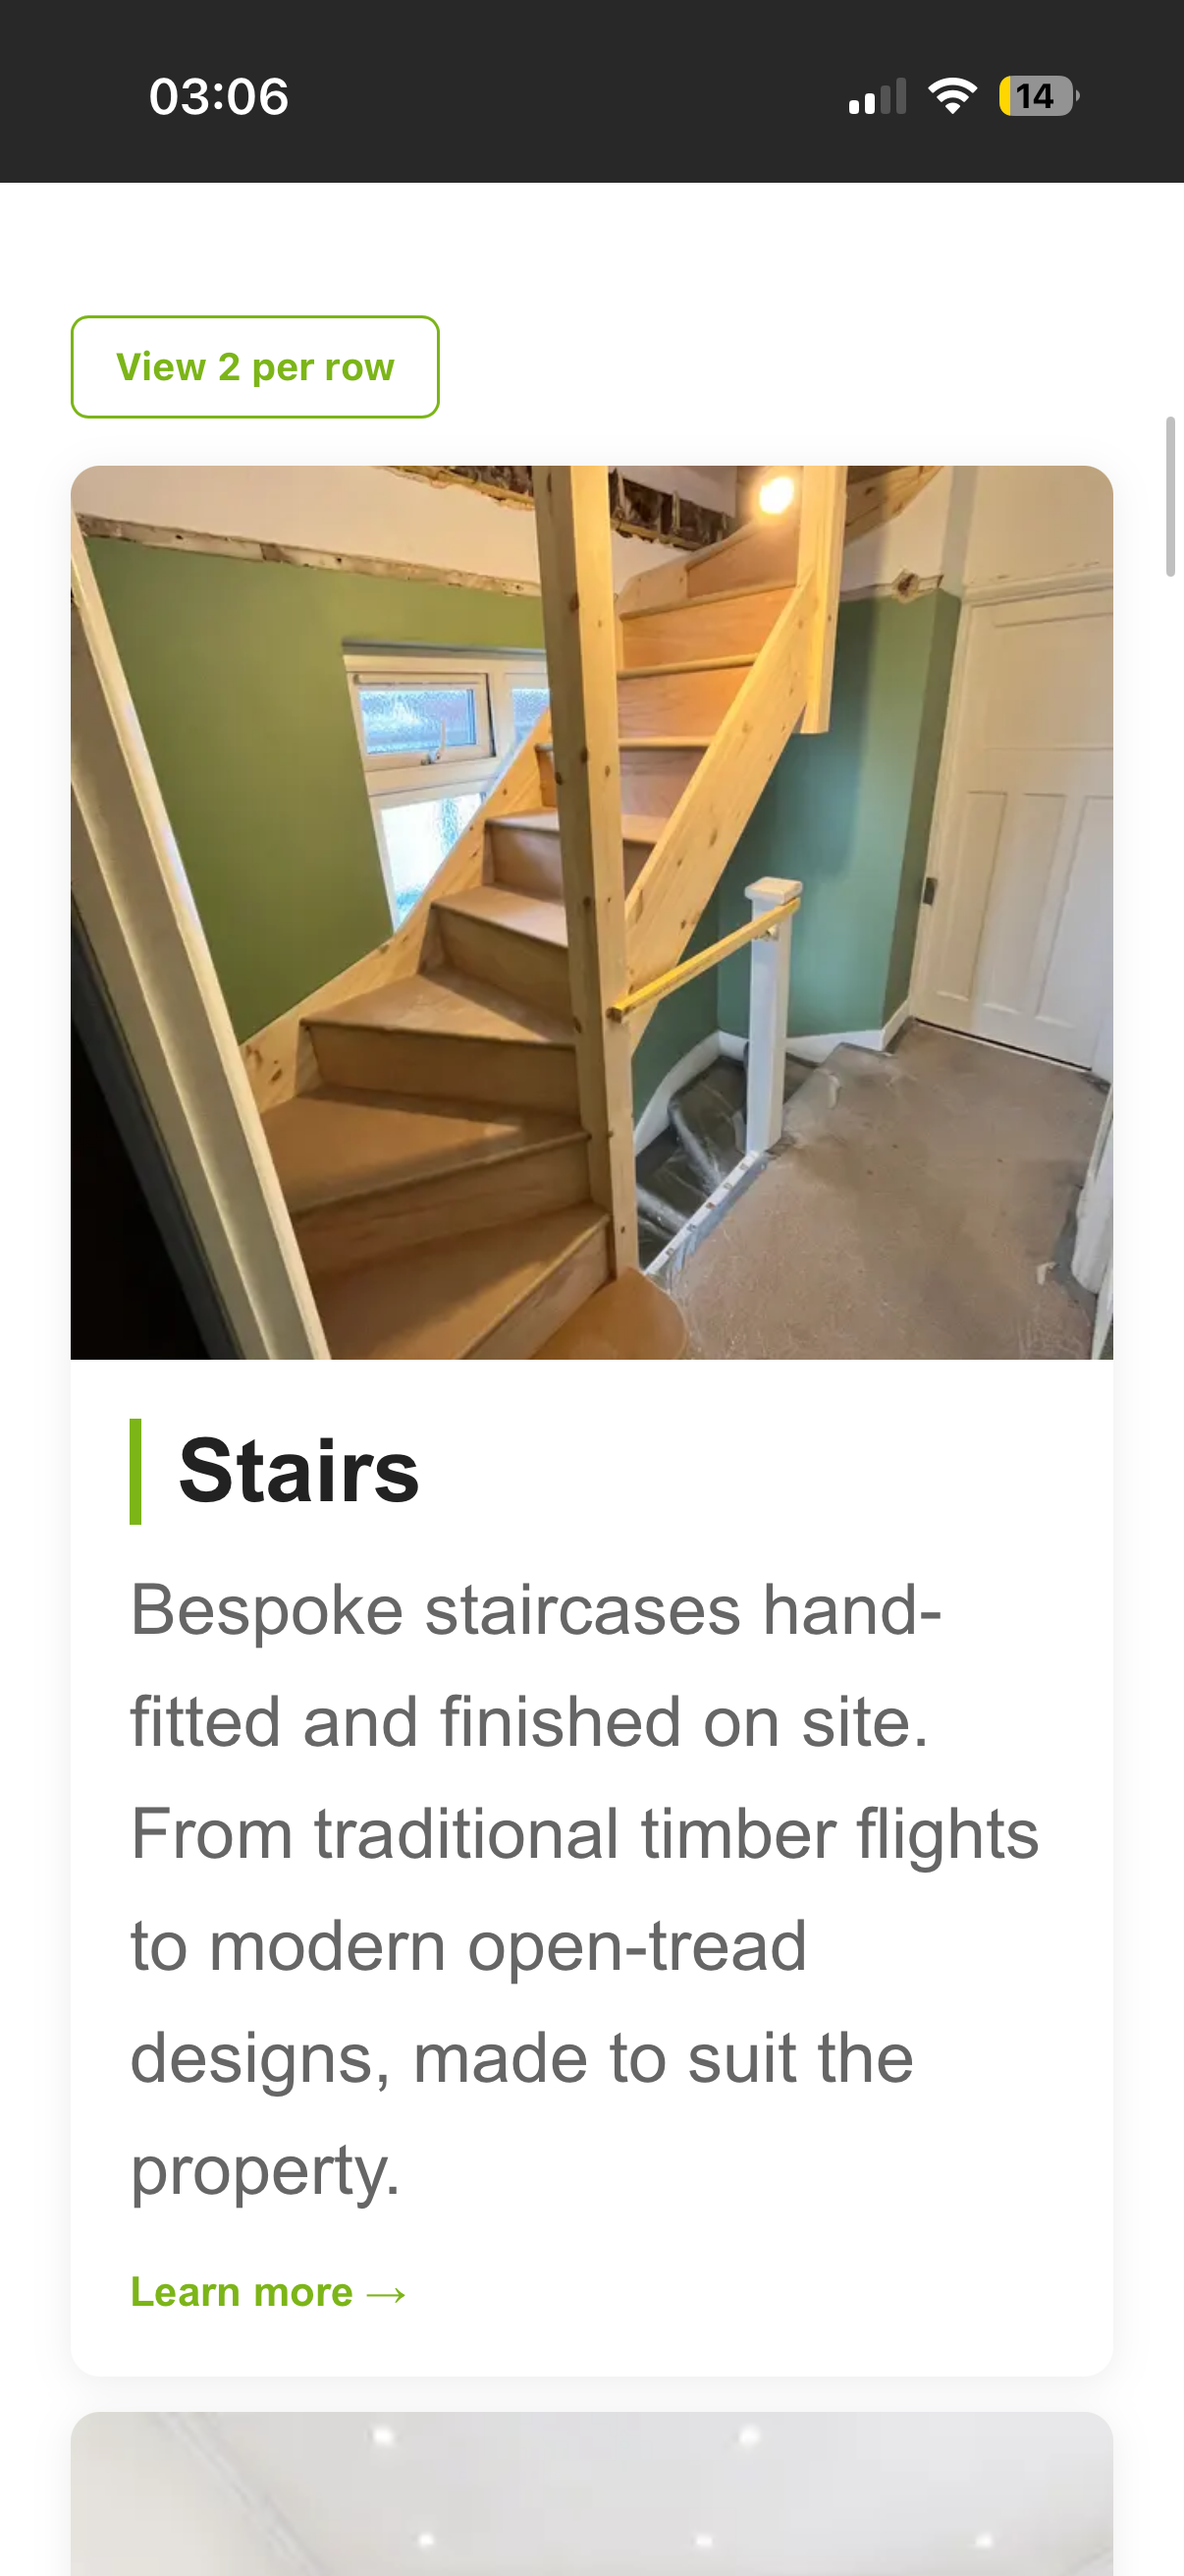
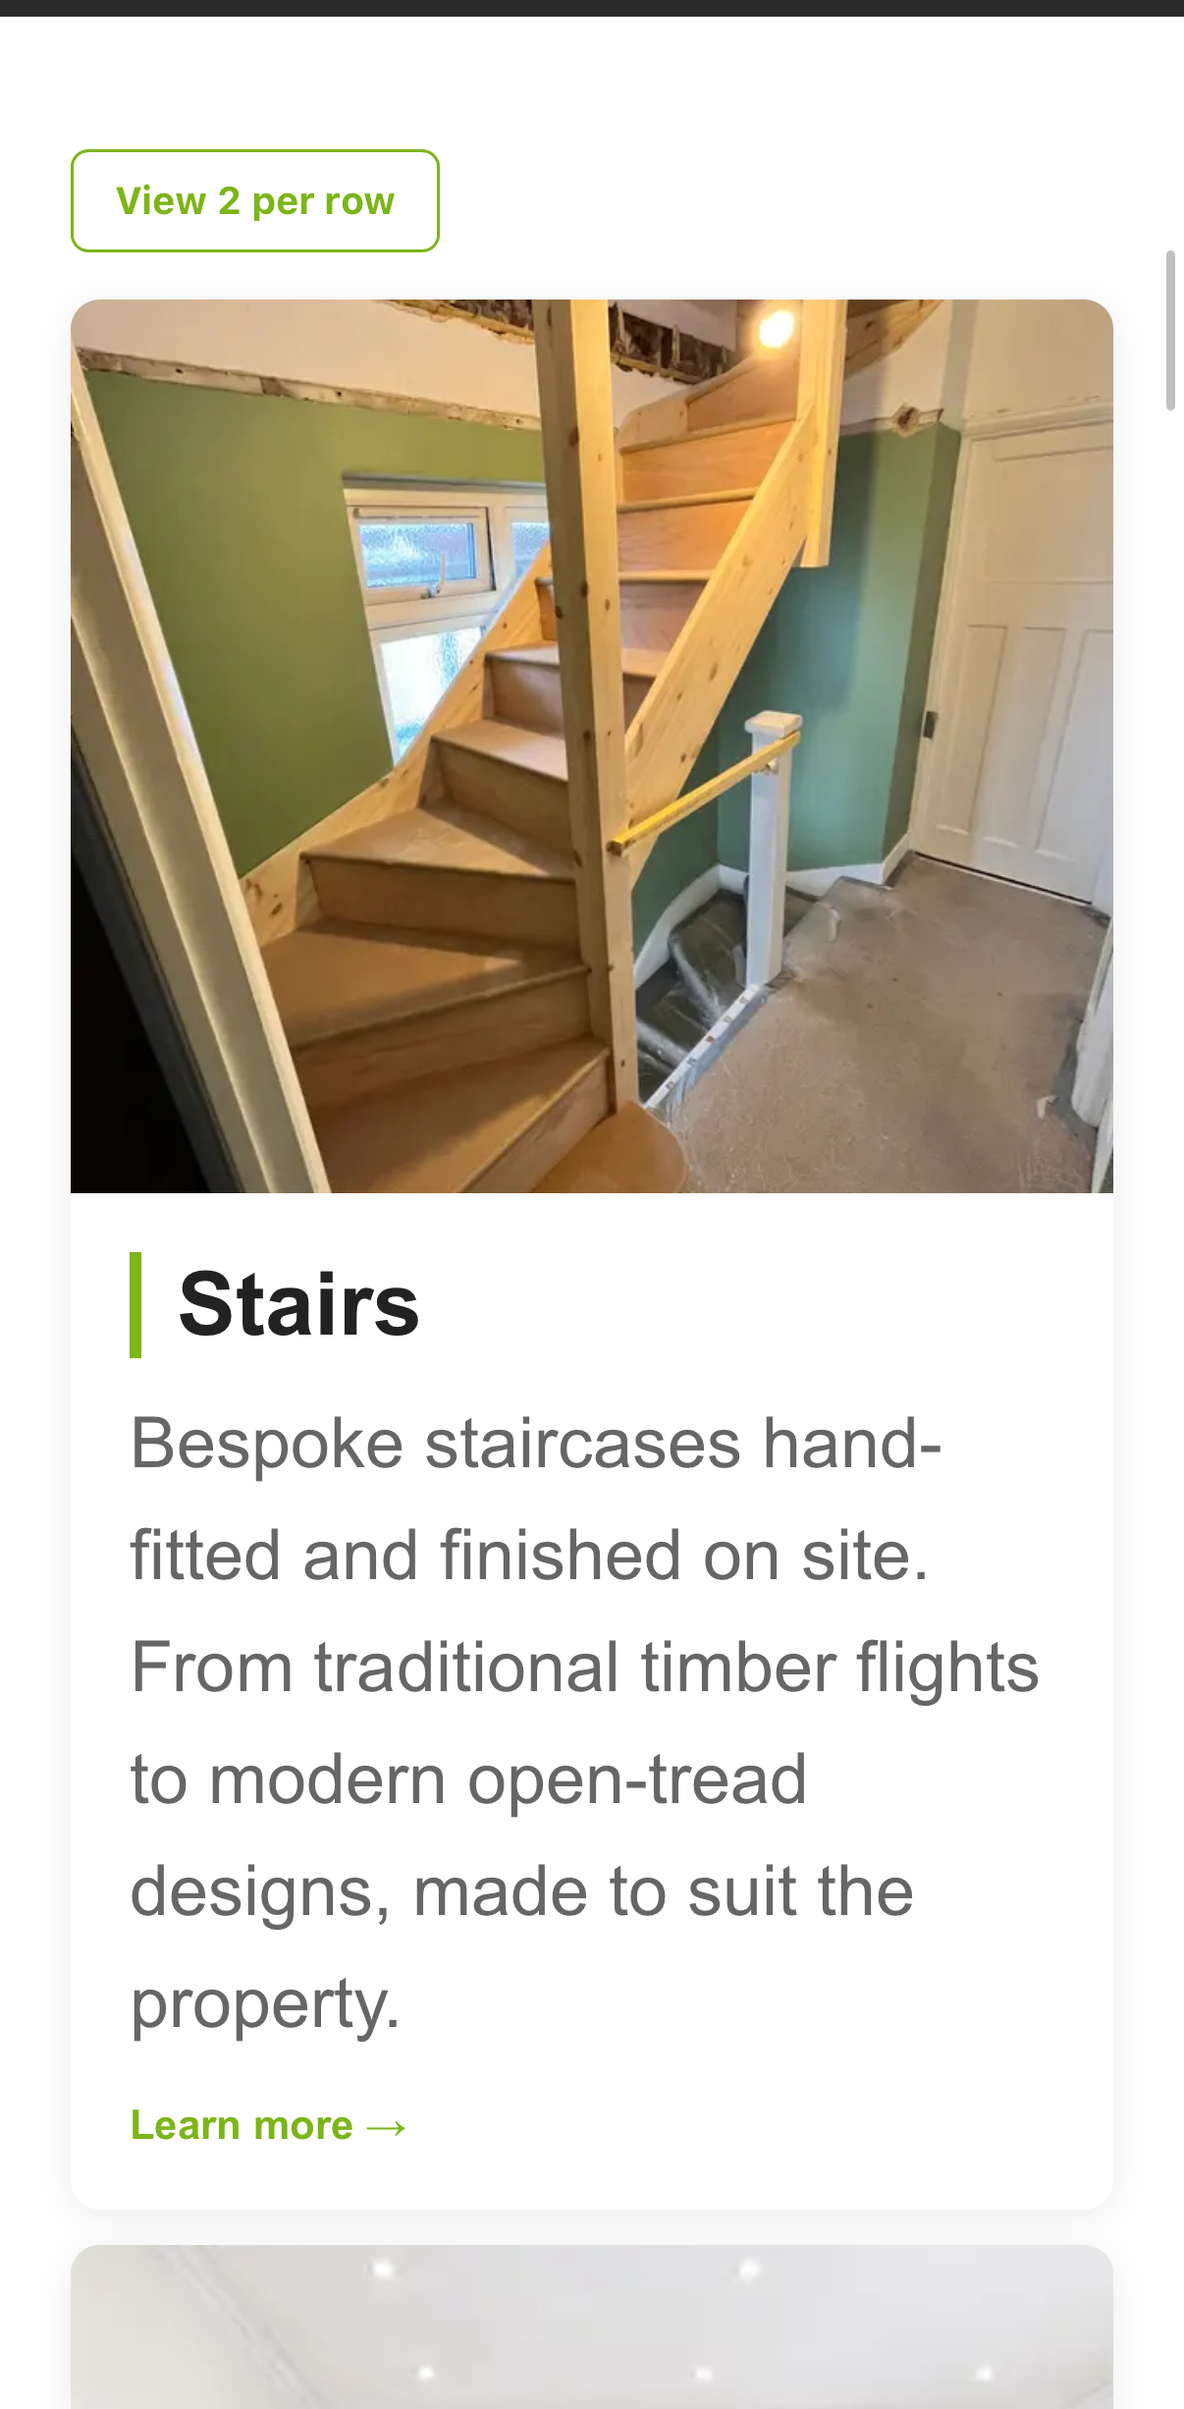
add transcript

diff --git a/pages/projects/[slug].js b/pages/projects/[slug].js
@@ -89,7 +89,7 @@ function Gallery({ images, name }) {
         <img
           src={images[current]}
           alt={`${name} screenshot ${current + 1}`}
-          style={{ width: "100%", height: "100%", objectFit: "cover", display: "block" }}
+          style={{ width: "100%", height: "100%", objectFit: "contain", display: "block" }}
         />
         {images.length > 1 && (
           <>
